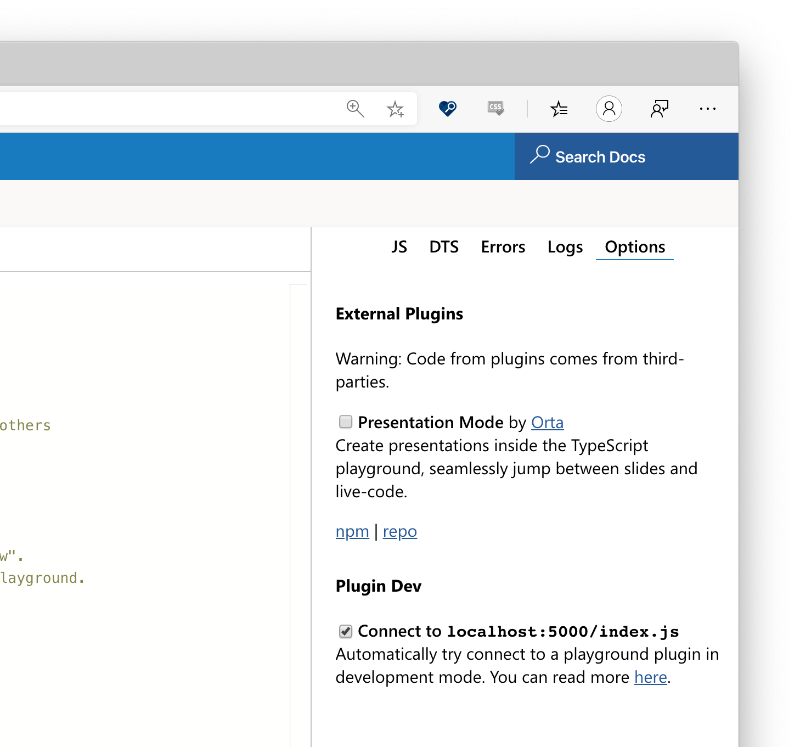
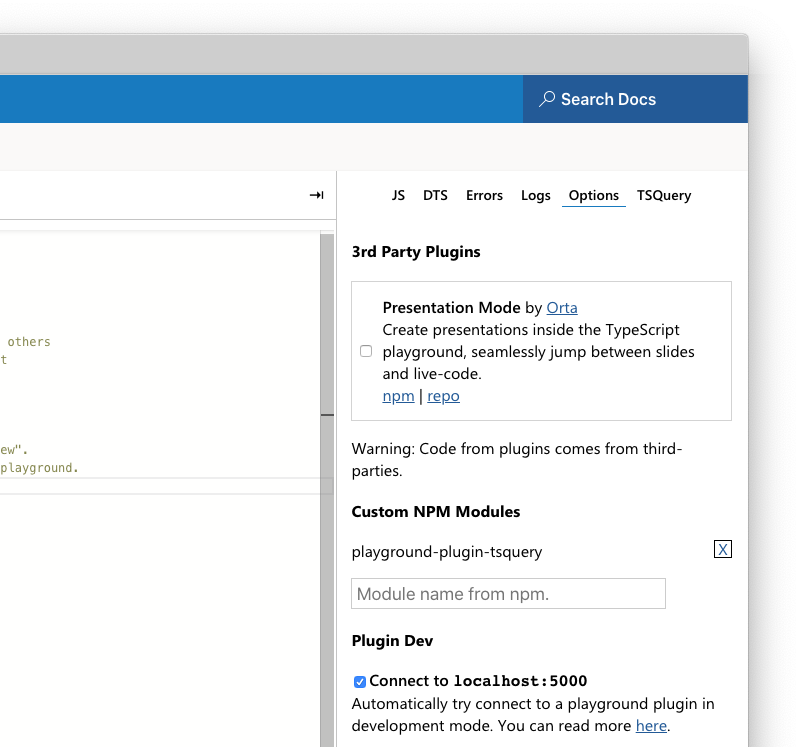
Wrap up the plugins

diff --git a/packages/typescriptlang-org/src/pages/dev/playground-plugins.tsx b/packages/typescriptlang-org/src/pages/dev/playground-plugins.tsx
@@ -19,14 +19,14 @@ const Index: React.FC<Props> = (props) => {
           <DevNav active="playground plugins" />
           <div className="raised content main-content-block">
             <div className="split-sixhundred">
-              <h1 style={{ marginTop: "20px" }}>Your code, our sandbox</h1>
+              <h1 style={{ marginTop: "20px" }}>Your toys, our sandbox</h1>
               <p>The new TypeScript Playground allows people to hook into the Playground and extend it in ways in which the TypeScript team don't expect.</p>
               <p>The sidebar of the Playground uses the same plugin infrastructure as external plugins, so you have the same level of access as the playground to build interesting projects.</p>
               <p>Playground plugins use frameworks, you're free to inject them at runtime and use them if you need to - but the current plugins are built with the vanilla DOM APIs and TypeScript.</p>
               <p>&nbsp;</p>
-              <p>We have a template, and the Playground has a dev-mode for hooking directly to your local server, so you don't need to run a copy of the TypeScript website to have a working development environment.</p>
-              <p>There is a complex reference plugin called <a href="https://github.com/orta/playground-slides">Presentation Mode</a> which is available by default for you to investigate and understand.</p>
-              <p>If you have a polished plugin, let us know and we can add it to the default registry - making it visible to everyone easily.</p>
+              <p>Getting started it easy, we have a plugin template, and the Playground has a dev-mode for hooking directly to your local server, so you don't need to run a copy of the TypeScript website to have a working development environment.</p>
+              <p>There is a complex reference plugin called <a href="https://github.com/orta/playground-slides">Presentation Mode</a> and a much simpler <a href="https://github.com/orta/playground-plugin-tsquery">plugin for TSQuery</a> which are available by default for you to investigate and understand.</p>
+              <p>If you have questions as you are working on your plugin, ask in the <a href='https://discord.gg/typescript'>TypeScript Community Discord</a>. When it is polished let us know and we can add it to the default registry - making it visible to everyone easily.</p>
             </div>
 
             <div className="sixhundred" style={{ borderLeft: "1px solid gray" }}>
@@ -37,7 +37,7 @@ const Index: React.FC<Props> = (props) => {
           <div className="raised main-content-block">
             <h2>Quick Tutorial</h2>
             <p>You need about 5 minutes, Node.js, yarn and a Chromium based browser.</p>
-            <p><b>Step 1</b>: Use the template to bootstrap: <code>npm init typescript-playground-plugin playground-my-plugin</code></p>
+            <p><b>Step 1</b>: Use the template to bootstrap: <code>yarn create typescript-playground-plugin playground-my-plugin</code></p>
             <p><b>Step 2</b>: Run <code>yarn start</code> in the new repo, to start up the local dev server</p>
             <p><b>Step 3</b>: Open the <a href={withPrefix("/play")}>playground</a> in your Chromium browser, click "Options" and enable <code>"Connect to localhost:5000/index.js"</code></p>
             <p><b>Step 4</b>: Refresh, and see the new tab. That's your plugin up and running</p>

diff --git a/packages/typescriptlang-org/src/copy/en/playground.ts b/packages/typescriptlang-org/src/copy/en/playground.ts
@@ -16,21 +16,21 @@ export const playCopy = {
   play_sidebar_logs: "Logs",
   play_sidebar_logs_no_logs: "No logs",
   play_sidebar_options: "Options",
-  play_sidebar_options_restart_required: "Restart required",
+  play_sidebar_options_restart_required: "Refresh Needed",
   play_sidebar_options_disable_ata: "Disable ATA",
   play_sidebar_options_disable_ata_copy:
     "Disable the automatic acquisition of types for imports and requires.",
   play_sidebar_options_disable_save: "Disable Save-On-Type",
   play_sidebar_options_disable_save_copy:
     "Disable changing the URL when you type.",
-  play_sidebar_options_external: "External Plugins",
+  play_sidebar_options_external: "3rd Party Plugins",
   play_sidebar_options_external_warning:
     "Warning: Code from plugins comes from third-parties.",
-  play_sidebar_options_modules: "Custom Modules",
-  play_sidebar_options_modules_placeholder: "Module from npm.",
+  play_sidebar_options_modules: "Custom NPM Modules",
+  play_sidebar_options_modules_placeholder: "Module name from npm.",
   play_sidebar_options_plugin_dev: "Plugin Dev",
   play_sidebar_options_plugin_dev_option:
-    "Connect to <code>localhost:5000/index.js</code>",
+    "Connect to <code>localhost:5000</code>",
   play_sidebar_options_plugin_dev_copy:
     "Automatically try connect to a playground plugin in development mode. You can read more <a href='https://www.typescriptlang.org/v2/dev/playground-plugins/'>here</a>.",
   play_export_report_issue: "Report GitHub issue on TypeScript",

diff --git a/packages/playground/src/sidebar/options.ts b/packages/playground/src/sidebar/options.ts
@@ -77,15 +77,6 @@ export const optionsPlugin: PluginFactory = i => {
       const ol = document.createElement('ol')
       ol.className = 'playground-options'
 
-      createSection(i('play_sidebar_options'), categoryDiv)
-
-      settings.forEach(setting => {
-        const settingButton = createButton(setting)
-        ol.appendChild(settingButton)
-      })
-
-      categoryDiv.appendChild(ol)
-
       createSection(i('play_sidebar_options_external'), categoryDiv)
 
       const pluginsOL = document.createElement('ol')
@@ -142,8 +133,18 @@ export const optionsPlugin: PluginFactory = i => {
         flag: 'connect-dev-plugin',
       })
       pluginsDevOL.appendChild(connectToDev)
-
       categoryDiv.appendChild(pluginsDevOL)
+
+      categoryDiv.appendChild(document.createElement('hr'))
+
+      createSection(i('play_sidebar_options'), categoryDiv)
+
+      settings.forEach(setting => {
+        const settingButton = createButton(setting)
+        ol.appendChild(settingButton)
+      })
+
+      categoryDiv.appendChild(ol)
     },
   }
 

diff --git a/packages/typescriptlang-org/src/templates/play.scss b/packages/typescriptlang-org/src/templates/play.scss
@@ -574,6 +574,7 @@ input.good {
 
   label {
     padding-left: 30px;
+    padding-right: 10px;
     span {
       font-weight: 600;
     }
@@ -584,6 +585,16 @@ input.good {
   a {
     display: inline-block;
     float: right;
+    border: black 1px solid;
+    height: 1rem;
+    width: 1rem;
+    text-align: center;
+    text-decoration: none;
+    line-height: 1rem;
+    &:hover {
+      background-color: #fcb7b7;
+      color: red;
+    }
   }
 }
 

diff --git a/packages/create-typescript-playground-plugin/template/CONTRIBUTING.md b/packages/create-typescript-playground-plugin/template/CONTRIBUTING.md
@@ -8,7 +8,7 @@ You can use `yarn start` to set up both a copy of Rollup to generate the JS, and
 yarn start
 ```
 
-Then set up the TypeScript playground to connect to a dev plugin at `http://localhost:5000/index.js`.
+Then set up the TypeScript playground to connect to a dev plugin at `http://localhost:5000/`.
 
 #### Plugin API
 
@@ -26,6 +26,18 @@ The plugins are passed copies of the TypeScript sandbox, which is a high level A
 #### Rollup
 
 [Rollup](https://rollupjs.org) is a JavaScript bundler, that will take all of the TypeScript + JavaScript code you reference and then create an AMD bundle for it all. AMD bundles are used in Monaco, TypeScript Sandbox and the Playground - so, this is used for consistency with the rest of the ecosystem.
+
+## Adding a dependency
+
+Because most node_modules expect to be running in node, you might have to do some work to get the dependency working on the web.
+
+The route to handle this is via rollup:
+
+- add a new dependency via `yarn add xyz`
+- import it into your `index.ts`
+- run `yarn build` - did it provide some error messages?
+  - If it did, you may need to edit your `rollup.config.js`.
+  - You could probably start by taking the [rollup config from `playground-plugin-tsquery`](https://github.com/orta/playground-plugin-tsquery/blob/master/rollup.config.js) and by adding any extra externals and globals.
 
 #### Serve
 

diff --git a/packages/create-typescript-playground-plugin/README.md b/packages/create-typescript-playground-plugin/README.md
@@ -6,7 +6,7 @@ A template for creating new plugins for the TypeScript playground.
 <p>You need about 5 minutes, Node.js, yarn and a Chromium based browser.</p>
 <p><b>Step 1</b>: Use the template to bootstrap: <code>npm init typescript-playground-plugin MyPlugin</code></p>
 <p><b>Step 2</b>: Run <code>yarn start</code> in the new repo, to start up the local dev server</p>
-<p><b>Step 3</b>: Open the <a href={withPrefix("/play")}>playground</a> in your Chromium browser, click "Options" and enable <code>"Connect to localhost:5000/index.js"</code></p>
+<p><b>Step 3</b>: Open the <a href={withPrefix("/play")}>playground</a> in your Chromium browser, click "Options" and enable <code>"Connect to localhost:5000"</code></p>
 <p><b>Step 4</b>: Refresh, and see the new tab. That's your plugin up and running</p>
 <p>&nbsp;</p>
 <p>That's all the pieces working in tandem, now you can make changes to the template and build out your plugin. The plugin in dev mode will always become forefront when connected, so you can re-load without a lot off clicks. To understand the template's technology, read the <a href='https://github.com/microsoft/TypeScript-Website/blob/v2/packages/create-playground-plugin/template/CONTRIBUTING.md'>CONTRIBUTING.md</a></p>

diff --git a/packages/create-typescript-playground-plugin/template/README.md b/packages/create-typescript-playground-plugin/template/README.md
@@ -2,6 +2,16 @@
 
 My new plugin for the TypeScript playground.
 
+## Running this plugin
+
+- Open up the TypeScript Playground
+- Go the "Options" in the sidebar
+- Look for "Plugins from NPM"
+- Add "playground-plugin-XYZ"
+- Reload the browser
+
+Then it will show up as a tab in the sidebar.
+
 ## Contributing
 
 See [CONTRIBUTING.md](./CONTRIBUTING.md) for the full details, however, TLDR:
